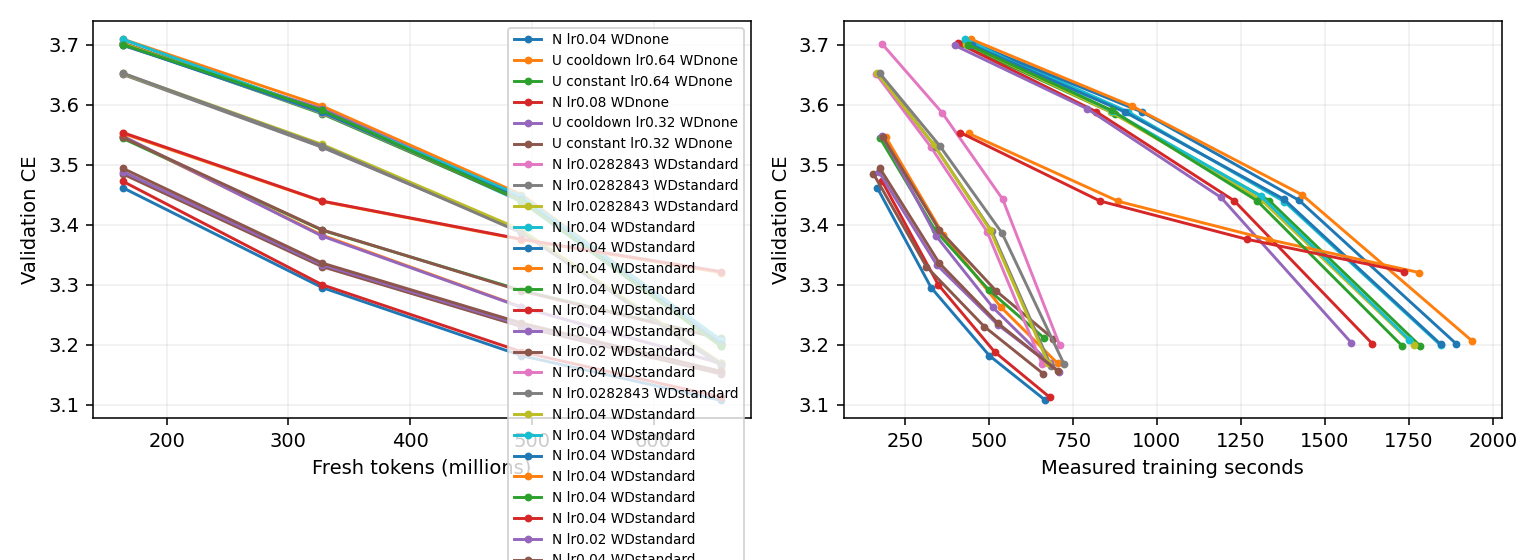
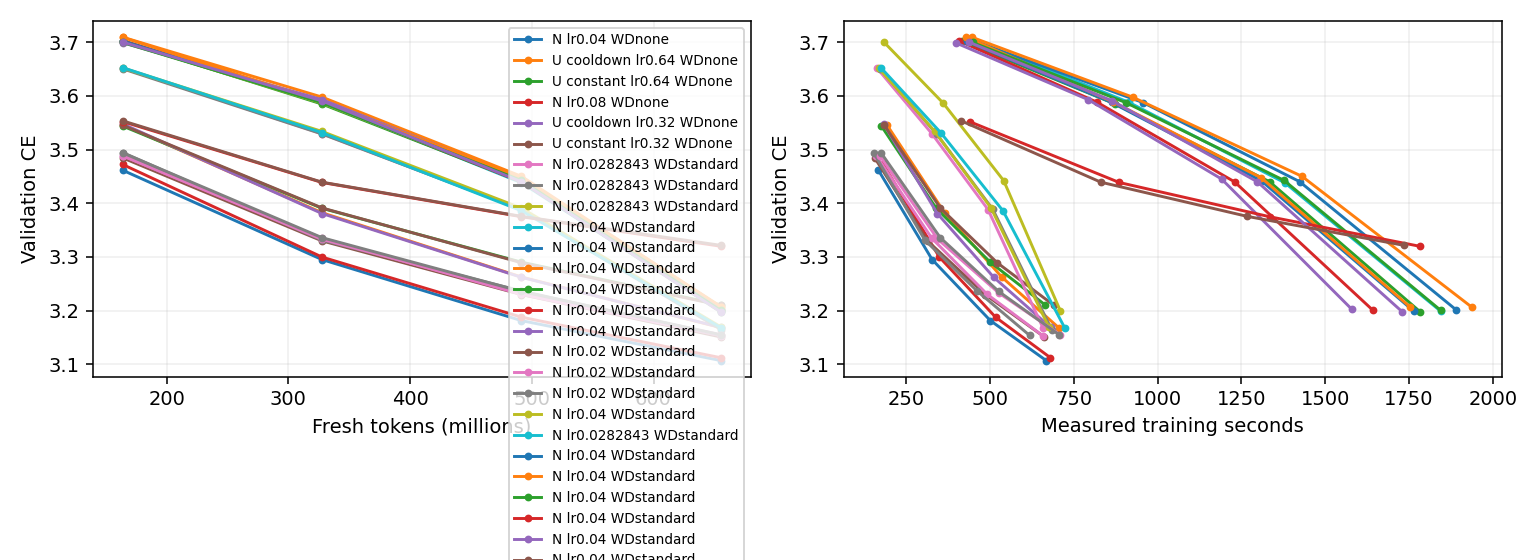
Update live Muon experiment results

diff --git a/research/unnormalized_muon/RESULTS.md b/research/unnormalized_muon/RESULTS.md
@@ -76,6 +76,9 @@ One B300 per job. CE is token cross-entropy (nats); lower is better. Rows with d
 | um-lens-confirm-layer-s10 | Clean GapWD layer uniform v2 c-in-Q armijo cap0.01/cooldown fixed_lambda=0.18375 WD:standard(0) | 20000 | 10 | 0.04 | 3.197503 | 0.969383 | 3.142940 | 1882.20 |
 | um-lens-confirm-layer-s11 | Clean GapWD layer uniform v2 c-in-Q armijo cap0.01/cooldown fixed_lambda=0.18375 WD:standard(0) | 20000 | 11 | 0.04 | 3.201502 | 0.970638 | 3.146095 | 1719.76 |
 | um-lens-confirm-layer-s12 | Clean GapWD layer uniform v2 c-in-Q armijo cap0.01/cooldown fixed_lambda=0.18375 WD:standard(0) | 20000 | 12 | 0.04 | 3.202821 | 0.970995 | 3.147678 | 1656.38 |
+| um-lens-confirm-reciprocal-s10 | Clean Muon shifted reciprocal v2 c-in-Q fixed_lambda=0.18375 WD:standard(0) | 20000 | 10 | 0.02 | 3.151175 | 0.955328 | 3.095999 | 720.44 |
+| um-lens-confirm-reciprocal-s11 | Clean Muon shifted reciprocal v2 c-in-Q fixed_lambda=0.18375 WD:standard(0) | 20000 | 11 | 0.02 | 3.153493 | 0.956068 | 3.094969 | 718.91 |
+| um-lens-confirm-reciprocal-s12 | Clean Muon shifted reciprocal v2 c-in-Q fixed_lambda=0.18375 WD:standard(0) | 20000 | 12 | 0.02 | 3.154174 | 0.956249 | 3.100018 | 673.99 |
 | um-lens-creative-ema0p5 | Clean GapWD layer uniform v2 c-in-Q armijo cap0.01/cooldown fixed_lambda=0.18375 WD:standard(0) | 2000 | 0 | 0.04 | 3.555660 | 1.077899 | — | 247.79 |
 | um-lens-creative-ema0p9 | Clean GapWD layer uniform v2 c-in-Q armijo cap0.01/cooldown fixed_lambda=0.18375 WD:standard(0) | 2000 | 0 | 0.04 | 3.558717 | 1.078825 | — | 229.92 |
 | um-lens-creative-periodic2 | Clean GapWD joint uniform v2 c-in-Q quadratic cap0.01/cooldown fixed_lambda=0.18375 WD:standard(0) | 2000 | 0 | 0.04 | 3.554936 | 1.077708 | — | 243.89 |
@@ -184,7 +187,7 @@ One B300 per job. CE is token cross-entropy (nats); lower is better. Rows with d
 
 Review of um-fw-diagnostic-001: Compiled training f0 compared against functional candidate losses; vanishing-step mismatch2-4e-5 exceeded tolerance, leading to curvature1e186 and45 skipped steps. Replaced by paired functional reference and candidates; retain all645 measured forwards and GPUcost.
 
-Conservative charged/reserved total: 20.7587 / 30 B300 GPU-hours. Includes prior smoke/failed attempts and current maximum-duration reservations. Six-slot central queue; one B300 per run.
+Conservative charged/reserved total: 19.8644 / 30 B300 GPU-hours. Includes prior smoke/failed attempts and current maximum-duration reservations. Six-slot central queue; one B300 per run.
 
 CLEAN geometry disables row equilibration and NorMuon. Original clean runs use zero matrix decay; new WD runs explicitly label standard or cautious decay and their CLI coefficient. Same five Polar Express steps and Frobenius correction; scale by the per-matrix nonnegative FP32 inner product of the native Nesterov input with the NS/Frobenius direction. Shape scaling occurs once outside the scalar. Legacy rows retain production extras and must be compared separately. Constant schedule changes only matrix LR; auxiliary schedules and momentum remain matched.
 

diff --git a/research/unnormalized_muon/DETAILED_EVAL.md b/research/unnormalized_muon/DETAILED_EVAL.md
@@ -22,6 +22,8 @@ All results use the B300 fork model/data/tokenizer and a fixed tuning-validation
 | normalized WD standard 0 | 0.04 | 20000 | 3.201502 | 1640.94 | 1719.76 |
 | normalized WD standard 0 | 0.04 | 20000 | 3.202821 | 1578.96 | 1656.38 |
 | normalized WD standard 0 | 0.02 | 20000 | 3.151175 | 662.61 | 720.44 |
+| normalized WD standard 0 | 0.02 | 20000 | 3.153493 | 657.94 | 718.91 |
+| normalized WD standard 0 | 0.02 | 20000 | 3.154174 | 618.61 | 673.99 |
 | normalized WD standard 0 | 0.04 | 20000 | 3.199618 | 710.50 | 788.71 |
 | normalized WD standard 0 | 0.0282843 | 20000 | 3.168332 | 723.17 | 786.20 |
 | normalized WD standard 0 | 0.04 | 20000 | 3.199090 | 1763.98 | 1834.23 |
@@ -336,6 +338,8 @@ um-lens-confirm-layer-s12: accepted 20000/20000; skipped nonpositive blocks 466;
 Timing seconds: direction=570.370, reference=146.431, candidates=141.366, auxiliary=18.228.
 
 | um-lens-confirm-reciprocal-s10 | fw_reciprocal native | 0.1837499 | 20000 | 3.151175 | 0 | 720.44 |
+| um-lens-confirm-reciprocal-s11 | fw_reciprocal native | 0.1837499 | 20000 | 3.153493 | 0 | 718.91 |
+| um-lens-confirm-reciprocal-s12 | fw_reciprocal native | 0.1837499 | 20000 | 3.154174 | 0 | 673.99 |
 | um-lens-creative-ema0p5 | layer native | 0.1837499 | 2000 | 3.555660 | 4000 | 247.79 |
 
 um-lens-creative-ema0p5: accepted 2000/2000; skipped nonpositive blocks 90; median actual eta 0.00757385; median gamma 0.00139169; median L 1e-16; median trials 1; max measured spectral ratio lambda*||W||op=0.405719. Native approximate NS can violate the ideal unit-oracle premise; this is recorded, not hidden.

diff --git a/research/unnormalized_muon/FW_LENS_RESULTS.md b/research/unnormalized_muon/FW_LENS_RESULTS.md
@@ -27,6 +27,8 @@ Token-based schedule curves are descriptive. Independently scheduled equal-time 
 | um-lens-confirm-layer-s11 | layer-cooldown | 20000 updates | 11 | 3.201502 | 3.146095 | 1644.674 | 40000 | 33.876 | 1719.76 |
 | um-lens-confirm-layer-s12 | layer-cooldown | 20000 updates | 12 | 3.202821 | 3.147678 | 1582.715 | 40000 | 32.262 | 1656.38 |
 | um-lens-confirm-reciprocal-s10 | reciprocal | 20000 updates | 10 | 3.151175 | 3.095999 | 665.399 | 0 | 24.702 | 720.44 |
+| um-lens-confirm-reciprocal-s11 | reciprocal | 20000 updates | 11 | 3.153493 | 3.094969 | 660.731 | 0 | 25.318 | 718.91 |
+| um-lens-confirm-reciprocal-s12 | reciprocal | 20000 updates | 12 | 3.154174 | 3.100018 | 620.926 | 0 | 24.343 | 673.99 |
 | um-lens-creative-ema0p5 | layer-ema | 2000 updates | 0 | 3.555660 | — | 177.247 | 4000 | 33.839 | 247.79 |
 | um-lens-creative-ema0p9 | layer-ema | 2000 updates | 0 | 3.558717 | — | 165.360 | 4000 | 31.419 | 229.92 |
 | um-lens-creative-periodic2 | joint-periodic | 2000 updates | 0 | 3.554936 | — | 151.717 | 3001 | 43.345 | 243.89 |
